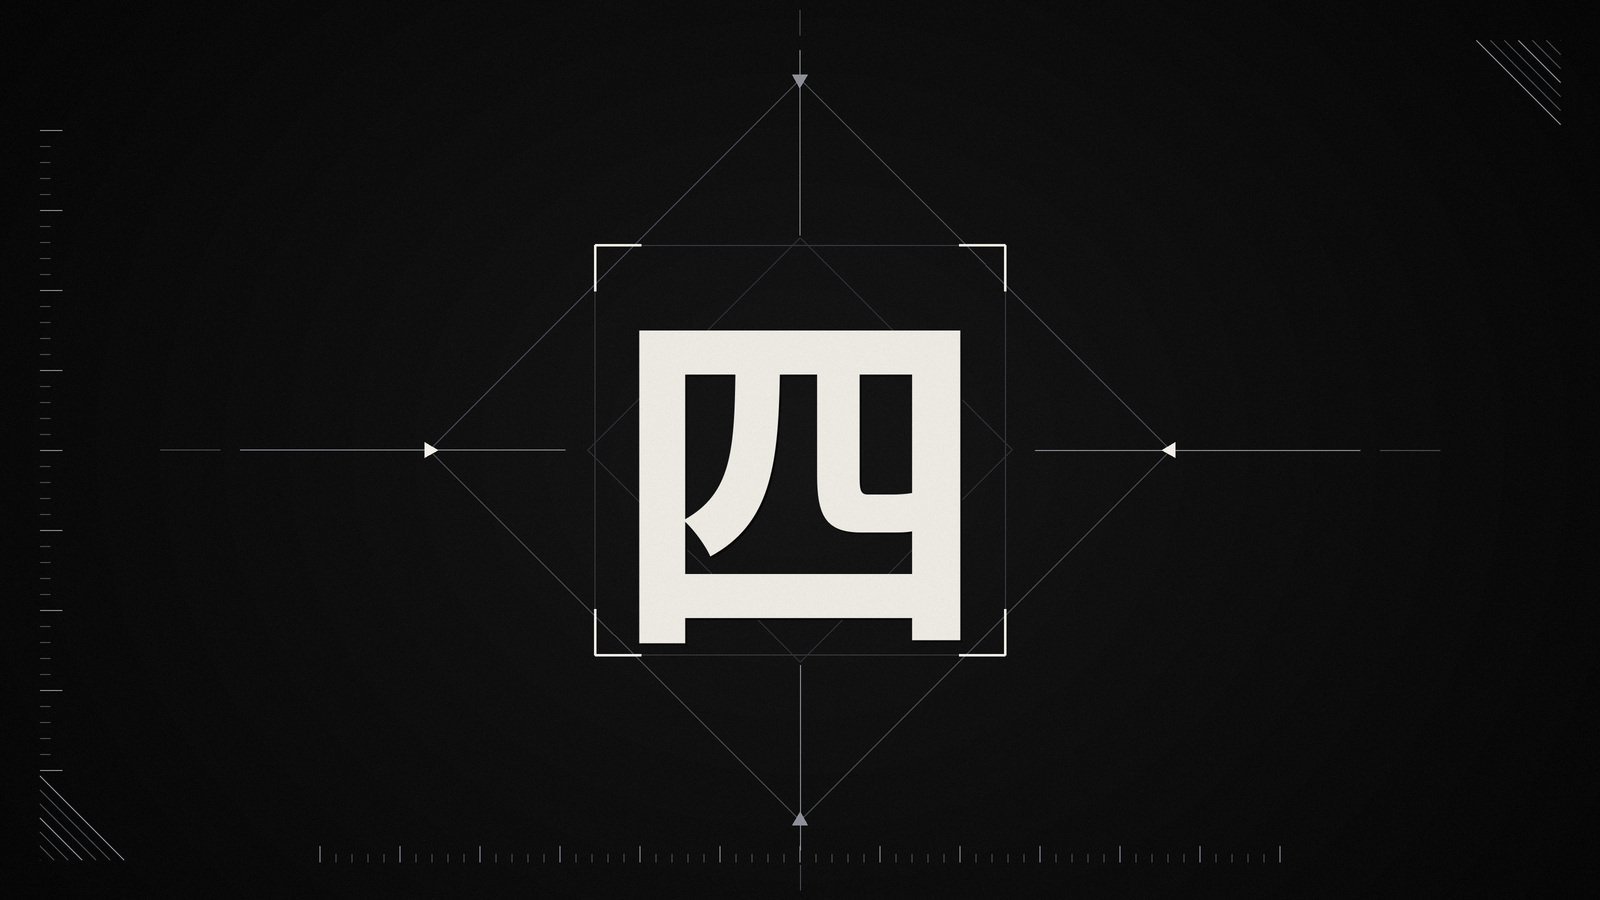
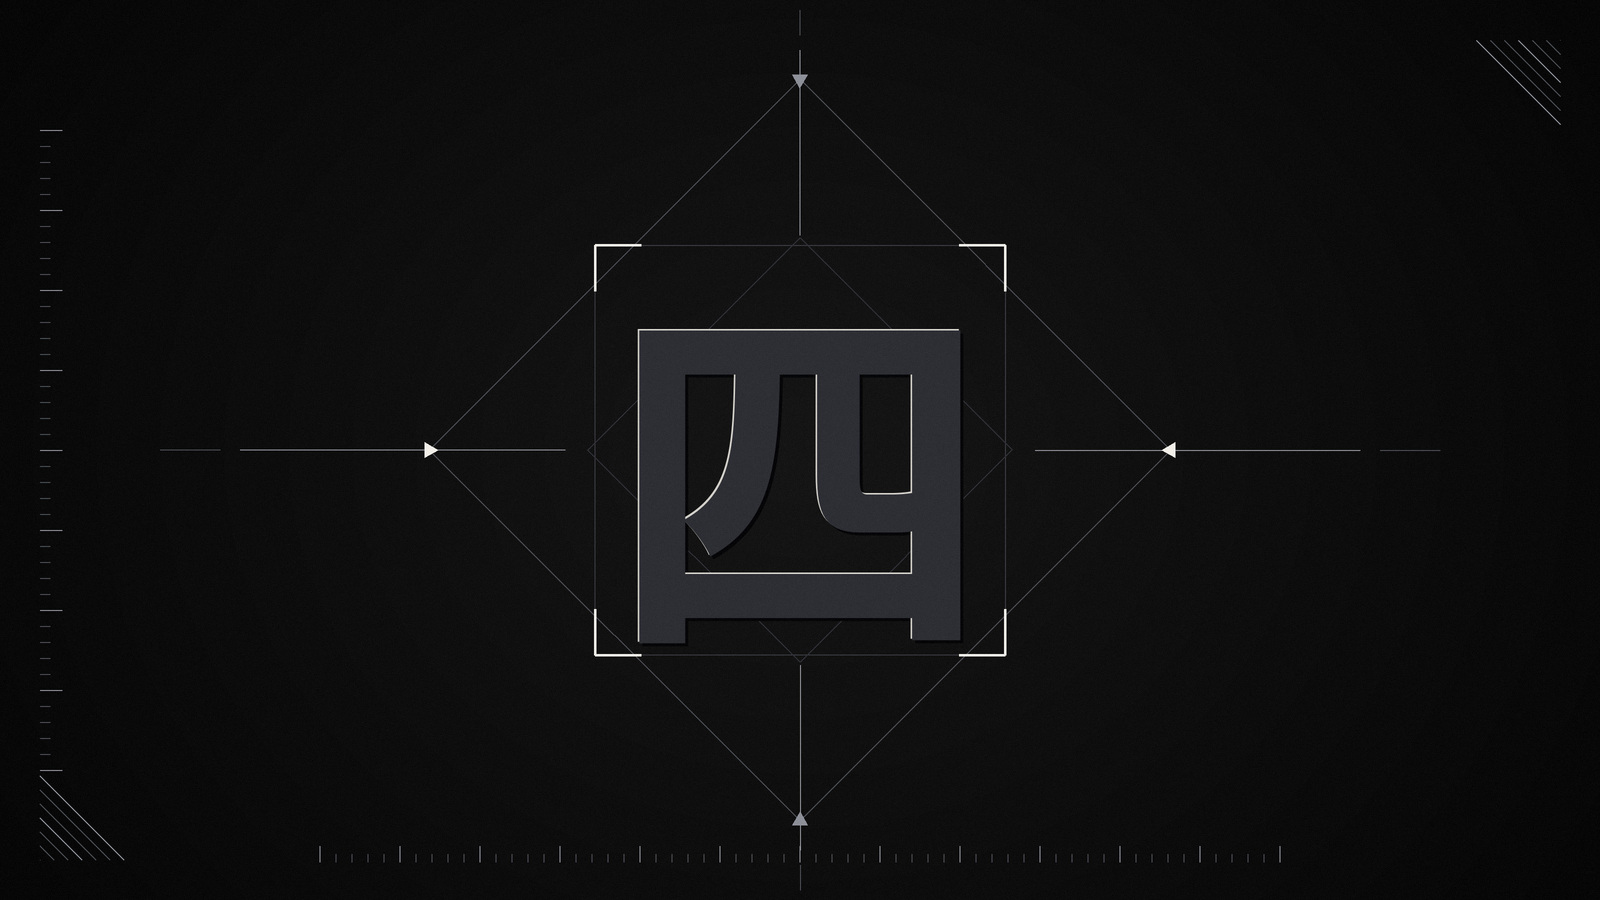
Minimal wallpaper: dark grey glyph with white highlight edge

Changed region(s): [[0.375, 0.3422, 0.625, 0.7156]]

diff --git a/scripts/wallpaper/gen_minimal.py b/scripts/wallpaper/gen_minimal.py
@@ -101,8 +101,9 @@ for i in range(7):
 
 # ---- the glyph
 font = ImageFont.truetype(CJK, 380 * K, index=2)
-d.text(P(CX + 2, CY + 2 + 6), "四", font=font, fill=(8, 8, 10), anchor="mm")       # hard offset shadow
-d.text(P(CX, CY + 6), "四", font=font, fill=(236, 233, 227), anchor="mm")
+d.text(P(CX + 3, CY + 3 + 6), "四", font=font, fill=(6, 6, 8), anchor="mm")         # hard offset shadow
+d.text(P(CX - 1.5, CY - 1.5 + 6), "四", font=font, fill=(214, 211, 205), anchor="mm")  # white highlight edge (top-left)
+d.text(P(CX, CY + 6), "四", font=font, fill=(46, 47, 53), anchor="mm")              # dark grey body
 
 # ---- output
 out = img.resize((W, H), Image.LANCZOS)
